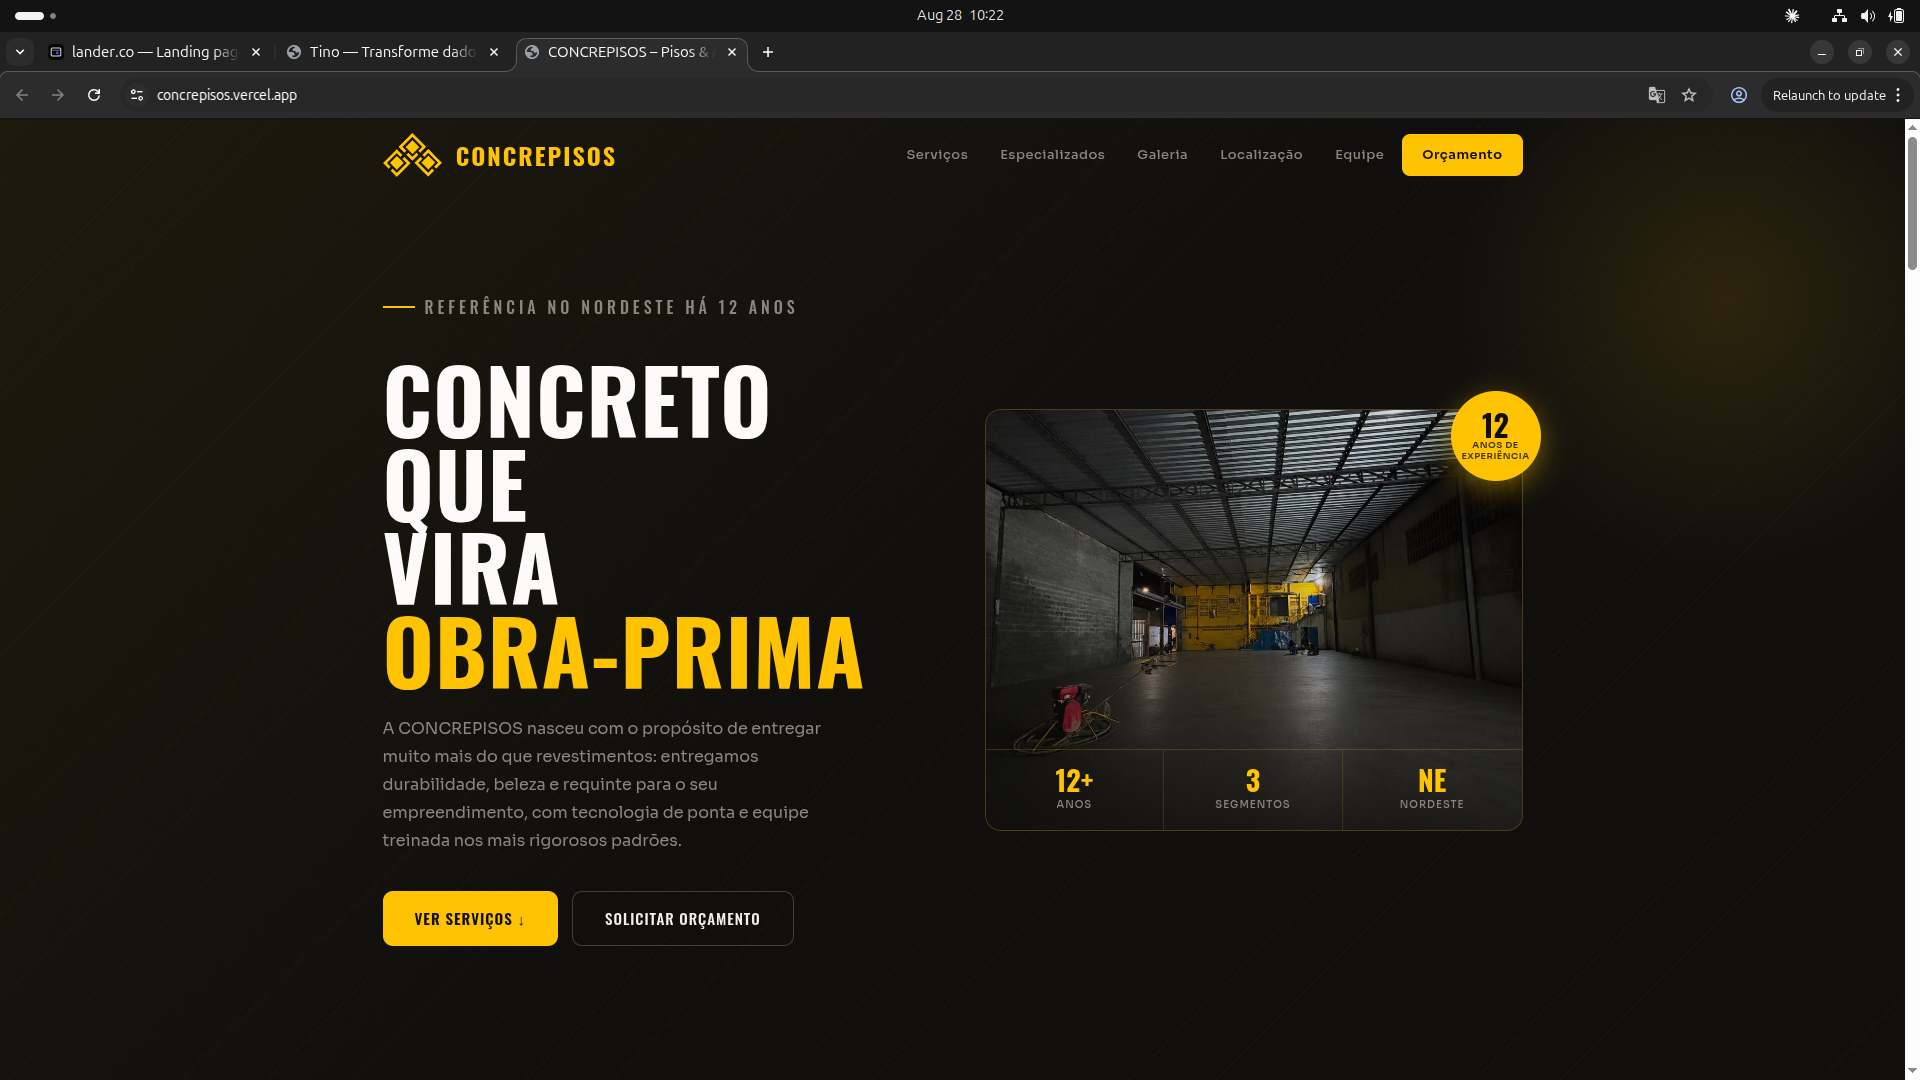
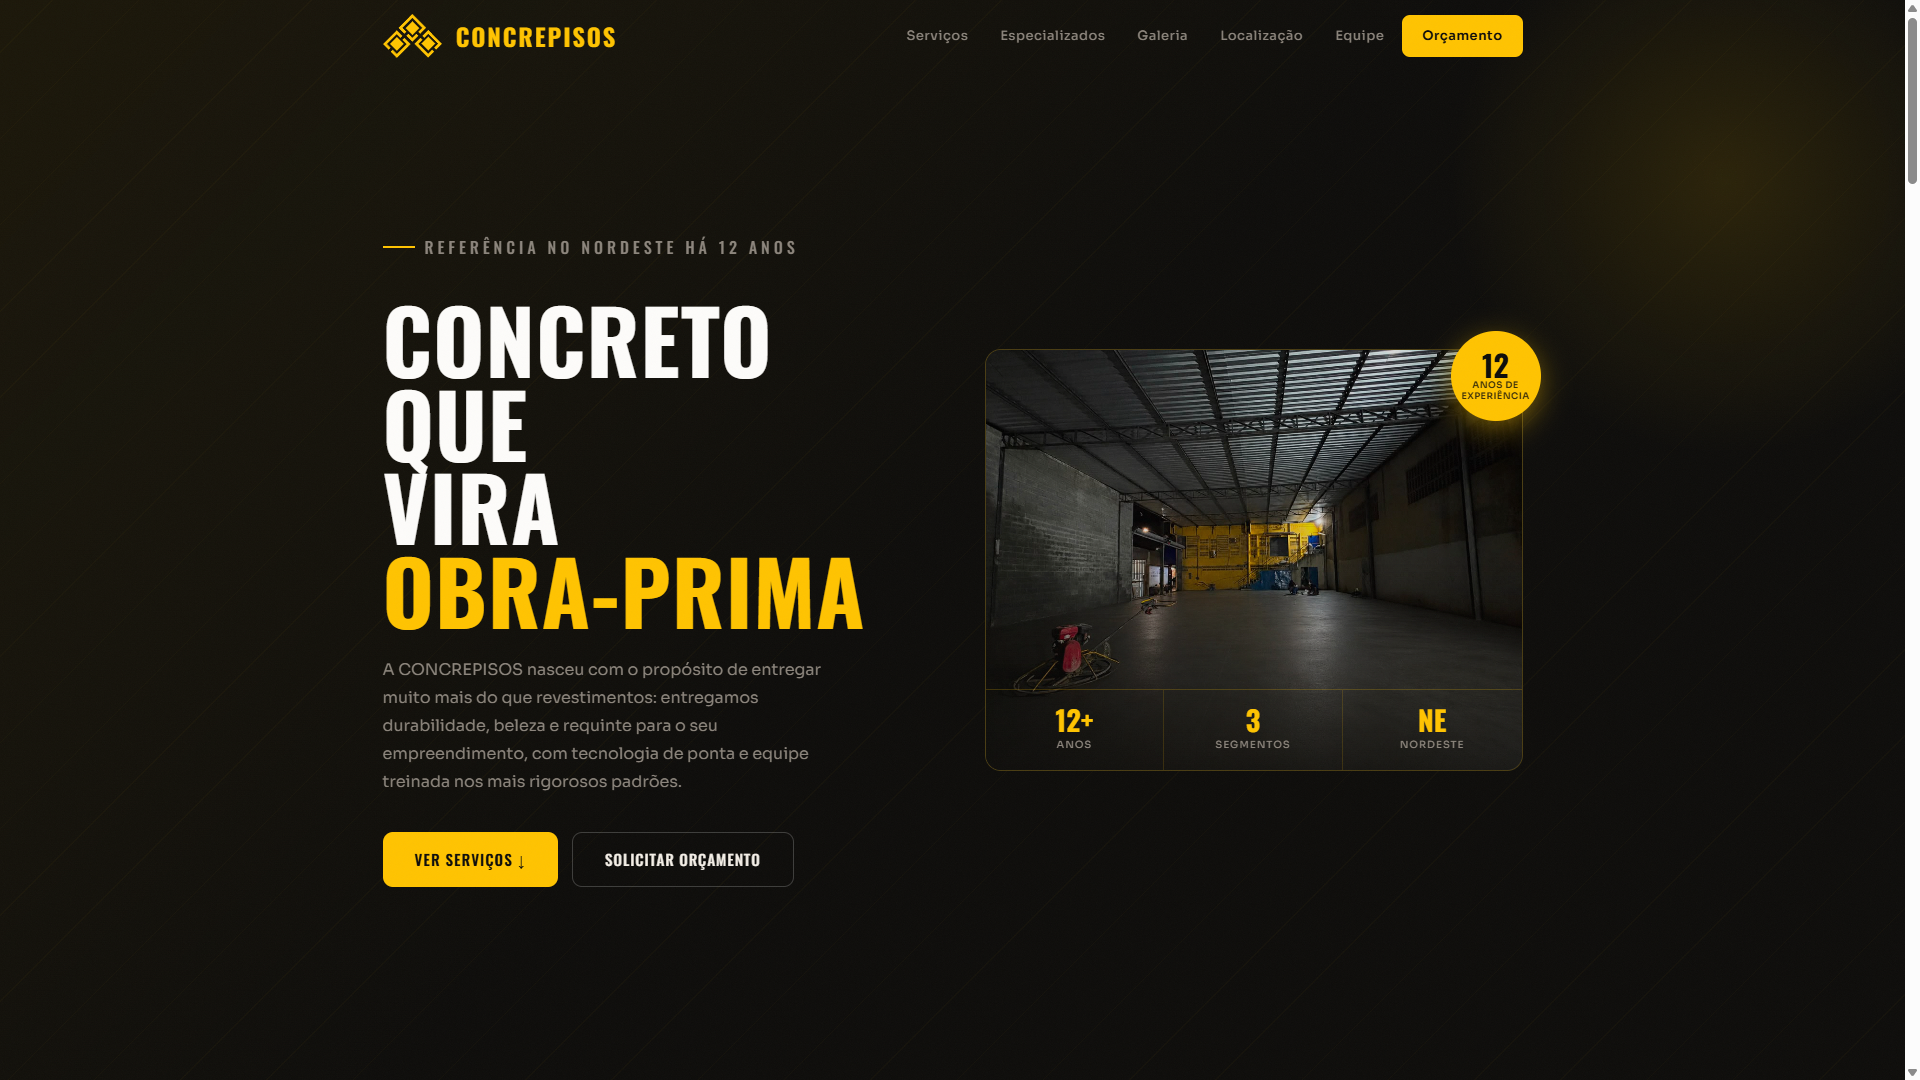
Update contact info and refresh portfolio screenshots
Real email (uselanderco@gmail.com) and Instagram (@uselander.co) replace
the last two placeholders in site.ts. Also picks up updated screenshots
for the Tino and CONCREPISOS portfolio cards.

diff --git a/src/content/site.ts b/src/content/site.ts
@@ -14,11 +14,10 @@ export const siteConfig = {
   whatsappNumber: "5581993552338",
   whatsappMessage: "Olá! Vim pelo site e quero um orçamento para minha landing page.",
 
-  // TODO: trocar pelo e-mail de contato real.
-  email: "ola@lander.co",
+  email: "uselanderco@gmail.com",
 
-  instagramHandle: "@lander.co",
-  instagramUrl: "https://instagram.com/lander.co",
+  instagramHandle: "@uselander.co",
+  instagramUrl: "https://instagram.com/uselander.co",
 } as const;
 
 // Typed as `string`, not narrowed to its literal — `siteConfig` is `as const`,
